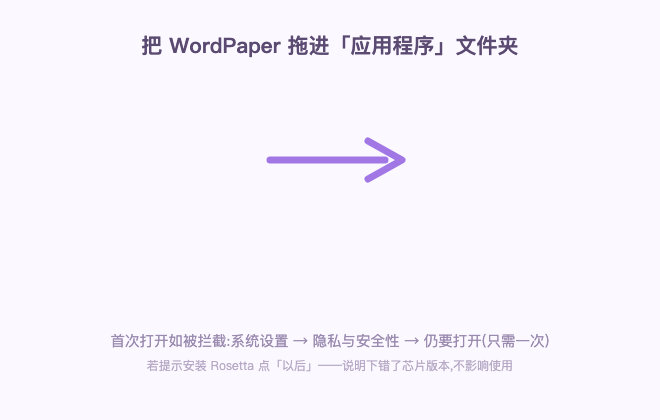
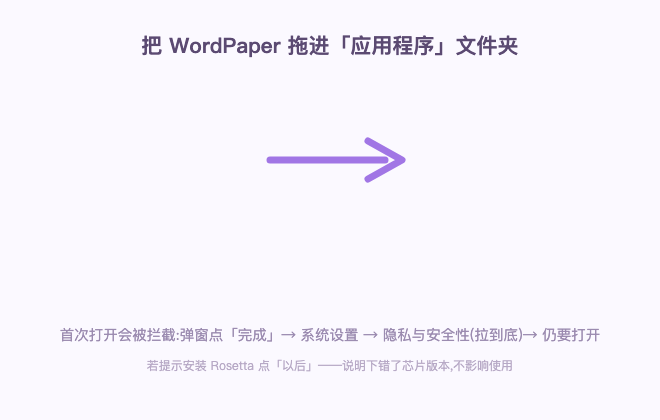
DMG 背景提示补全:Gatekeeper 三步指引(完成→隐私与安全性→仍要打开)

Changed region(s): [[0.0909, 0.7738, 0.9091, 0.8357]]

diff --git a/scripts/make_dmg_bg.py b/scripts/make_dmg_bg.py
@@ -25,8 +25,8 @@ SVG = """<svg xmlns='http://www.w3.org/2000/svg' width='660' height='420' viewBo
   <line x1='270' y1='160' x2='385' y2='160'/>
   <path d='M368 141 L402 160 L368 179'/>
 </g>
-<text x='330' y='346' text-anchor='middle' font-family='PingFang SC,Hiragino Sans GB,sans-serif'
-      font-size='14.5' fill='#9b8bb0'>首次打开如被拦截:系统设置 → 隐私与安全性 → 仍要打开(只需一次)</text>
+<text x='330' y='340' text-anchor='middle' font-family='PingFang SC,Hiragino Sans GB,sans-serif'
+      font-size='14.5' fill='#9b8bb0'>首次打开会被拦截:弹窗点「完成」→ 系统设置 → 隐私与安全性(拉到底)→ 仍要打开</text>
 <text x='330' y='370' text-anchor='middle' font-family='PingFang SC,Hiragino Sans GB,sans-serif'
       font-size='12' fill='#b7a9c6'>若提示安装 Rosetta 点「以后」——说明下错了芯片版本,不影响使用</text>
 </svg>"""
